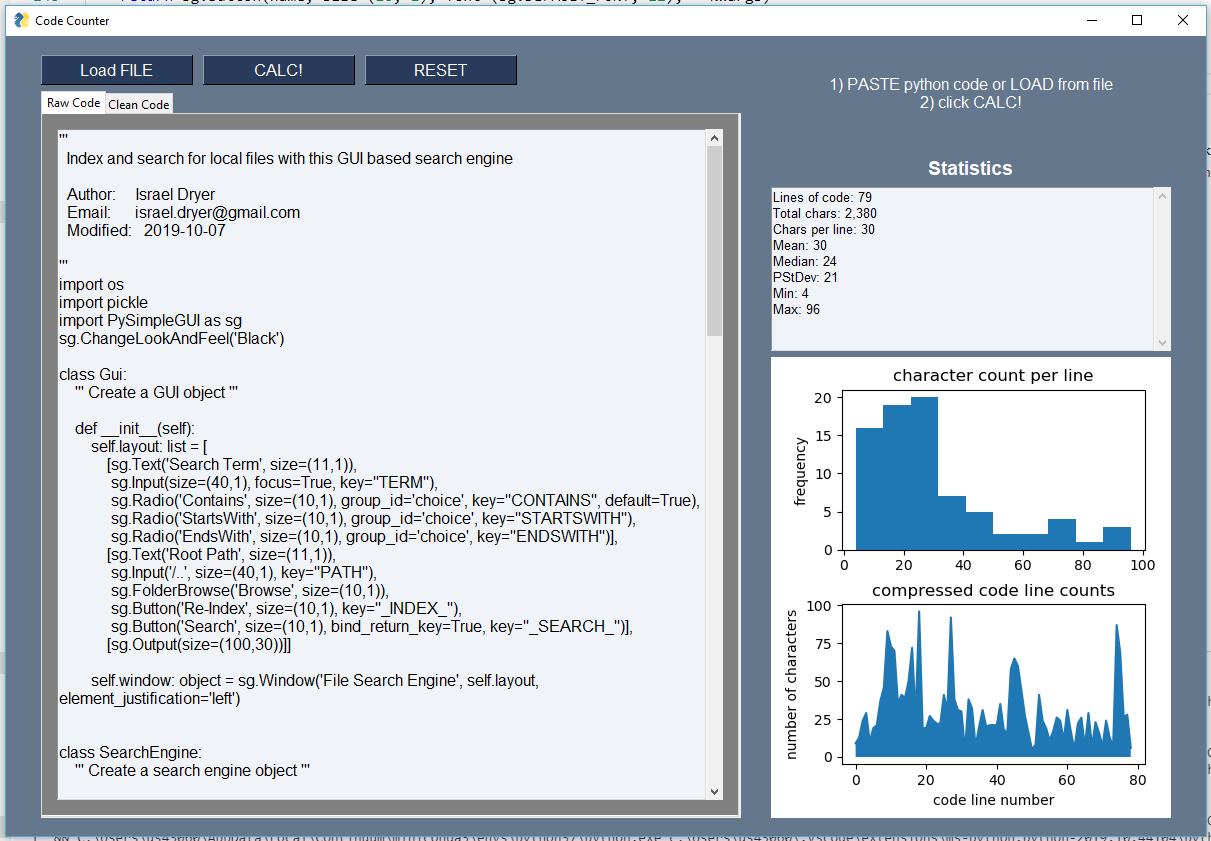
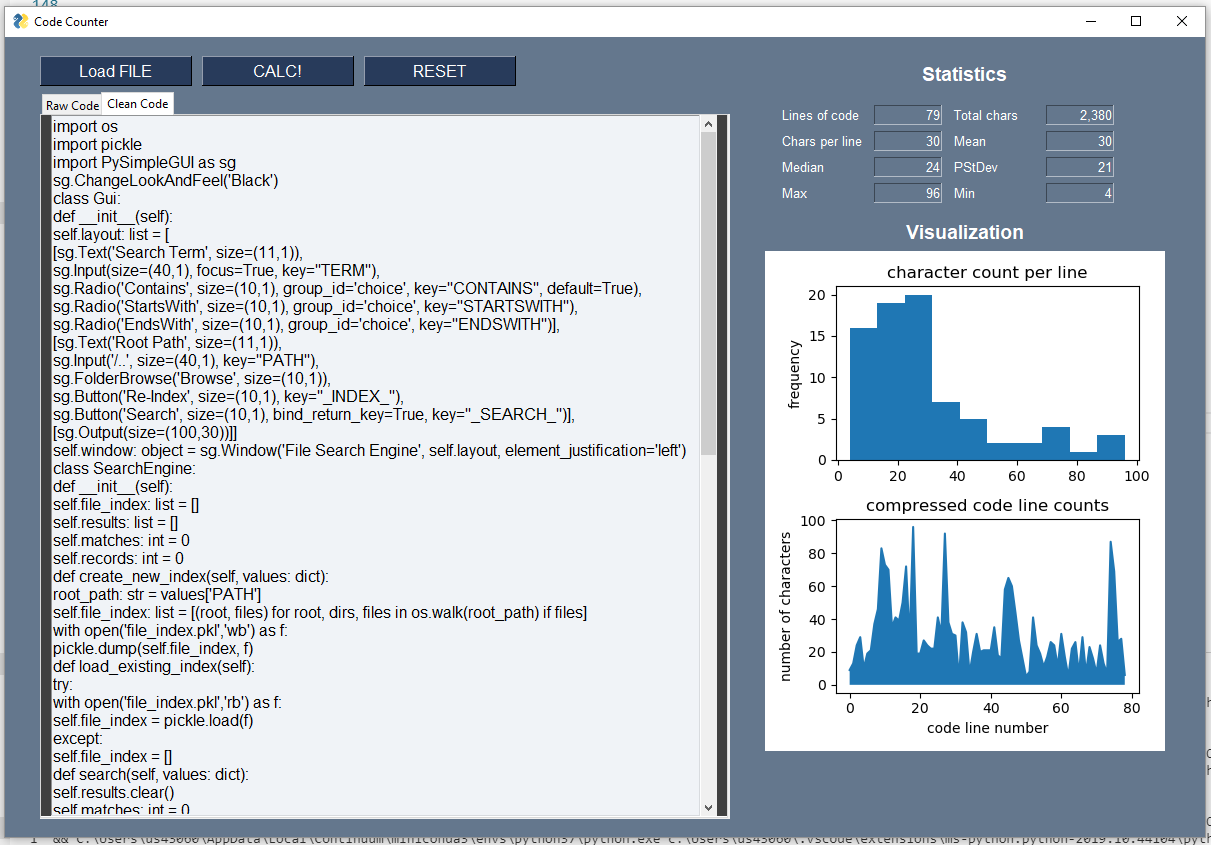
added fixed field elements for stats

diff --git a/code_counter.py b/code_counter.py
@@ -117,12 +117,26 @@ def display_charts(char_cnt, window):
 
 def display_stats(code_stats, window):
     """ display code stats in the window """
-    display = (
-          "Lines of code: {lines:,d}\nTotal chars: {count:,d}" + 
-          "\nChars per line: {char_per_line:,d}\nMean: {mean:,.0f}" + 
-          "\nMedian: {median:,.0f}\nPStDev: {pstdev:,.0f}" + 
-          "\nMin: {min:,d}\nMax: {max:,d}") 
-    window['STATS'].update(display.format(**code_stats))
+    window['LINES'].update('{:,d}'.format(code_stats['lines']))
+    window['CHARS'].update('{:,d}'.format(code_stats['count']))
+    window['CPL'].update('{:,d}'.format(code_stats['char_per_line']))
+    window['MEAN'].update('{:,.0f}'.format(code_stats['mean']))
+    window['MEDIAN'].update('{:,.0f}'.format(code_stats['median']))
+    window['PSTDEV'].update('{:,.0f}'.format(code_stats['pstdev']))
+    window['MAX'].update('{:,d}'.format(code_stats['max']))
+    window['MIN'].update('{:,d}'.format(code_stats['min']))
+
+
+def reset_stats(window):
+    """ clear the stats fields """
+    window['LINES'].update('{:,d}'.format(0))
+    window['CHARS'].update('{:,d}'.format(0))
+    window['CPL'].update('{:,d}'.format(0))
+    window['MEAN'].update('{:,.0f}'.format(0))
+    window['MEDIAN'].update('{:,.0f}'.format(0))
+    window['PSTDEV'].update('{:,.0f}'.format(0))
+    window['MAX'].update('{:,d}'.format(0))
+    window['MIN'].update('{:,d}'.format(0))
 
 
 def click_file(window):
@@ -148,25 +162,45 @@ def btn(name, **kwargs):
     """ create button with default settings """
     return sg.Button(name, size=(16, 1), font=(sg.DEFAULT_FONT, 12), **kwargs)
 
+def stat(text, width=10, relief=None, justification='left', key=None):
+    elem = sg.Text(text, size=(width, 1), relief=relief, justification=justification, key=key)
+    return elem
 
 def main():
     """ main program and GUI loop """
     sg.ChangeLookAndFeel('BrownBlue')
     
-    tab1 = sg.Tab('Raw Code', [[sg.Multiline(key='INPUT', pad=(5, 15), font=(sg.DEFAULT_FONT, 12))]], background_color='gray', key='T1')
-    tab2 = sg.Tab('Clean Code', [[sg.Multiline(key='OUTPUT', pad=(5, 15), font=(sg.DEFAULT_FONT, 12))]], background_color='green', key='T2')
+    tab1 = sg.Tab('Raw Code', 
+        [[sg.Multiline(key='INPUT', pad=(0, 0), font=(sg.DEFAULT_FONT, 12))]], 
+        background_color='gray', key='T1')
+    tab2 = sg.Tab('Clean Code', 
+        [[sg.Multiline(key='OUTPUT', pad=(0, 0), font=(sg.DEFAULT_FONT, 12))]], 
+        background_color='gray25', key='T2')
 
-    col1 = [[btn('Load FILE'), btn('CALC!'), btn('RESET')], 
-            [sg.TabGroup([[tab1, tab2]], title_color='black', key='TABGROUP')]]
+    stat_col = sg.Column([
+        [stat('Lines of code'), stat(0, 8, 'sunken', 'right', 'LINES'),
+         stat('Total chars'), stat(0, 8, 'sunken', 'right', 'CHARS')],
+        [stat('Chars per line'), stat(0, 8, 'sunken', 'right', 'CPL'),
+         stat('Mean'), stat(0, 8, 'sunken', 'right', 'MEAN')],
+        [stat('Median'), stat(0, 8, 'sunken', 'right', 'MEDIAN'),
+         stat('PStDev'), stat(0, 8, 'sunken', 'right', 'PSTDEV')],
+        [stat('Max'), stat(0, 8, 'sunken', 'right', 'MAX'),
+         stat('Min'), stat(0, 8, 'sunken', 'right', 'MIN')]], pad=(5, 10), key='STATS')
 
-    col2 = [[sg.Text('\n1) PASTE python code or LOAD from file\n2) click CALC!', 
-                justification='center', font=(sg.DEFAULT_FONT, 12), size=(40, 5))],
-           [sg.Text('Statistics', size=(20, 1), font=(sg.DEFAULT_FONT, 14, 'bold'), justification='center')],
-           [sg.Multiline(size=(50, 10), key='STATS')],
-           [sg.Canvas(key='IMG')]]
+    lf_col = [
+        [btn('Load FILE'), btn('CALC!'), btn('RESET')], 
+        [sg.TabGroup([[tab1, tab2]], title_color='black', key='TABGROUP')]]
 
-    layout = [[sg.Column(col1, element_justification='left', pad=(0, 10), key='COL1'), 
-               sg.Column(col2, element_justification='center', pad=(0, 10), key='COL2')]]
+    rt_col = [
+        [sg.Text('Statistics', size=(20, 1), pad=((5, 5), (15, 5)), 
+                    font=(sg.DEFAULT_FONT, 14, 'bold'), justification='center')],
+        [stat_col], 
+        [sg.Text('Visualization', size=(20, 1), 
+            font=(sg.DEFAULT_FONT, 14, 'bold'), justification='center')],        
+        [sg.Canvas(key='IMG')]]
+
+    layout = [[sg.Column(lf_col, element_justification='left', pad=(0, 10), key='LCOL'), 
+               sg.Column(rt_col, element_justification='center', key='RCOL')]]
 
     window = sg.Window('Code Counter', layout, resizable=True, finalize=True)
     
@@ -180,7 +214,7 @@ def main():
     window.move(pos_x, pos_y)
     # window.maximize()
 
-    for elem in ['INPUT','OUTPUT','STATS','COL1','TABGROUP']:
+    for elem in ['INPUT','OUTPUT','LCOL','TABGROUP']:
         window[elem].expand(expand_x=True, expand_y=True)
 
     while True:
@@ -197,8 +231,8 @@ def main():
         if event == 'RESET':
             window['INPUT'].update('')
             window['OUTPUT'].update('')
-            window['STATS'].update('')
-        
+            reset_stats(window)
+            
 
 if __name__ == '__main__':
     main()
